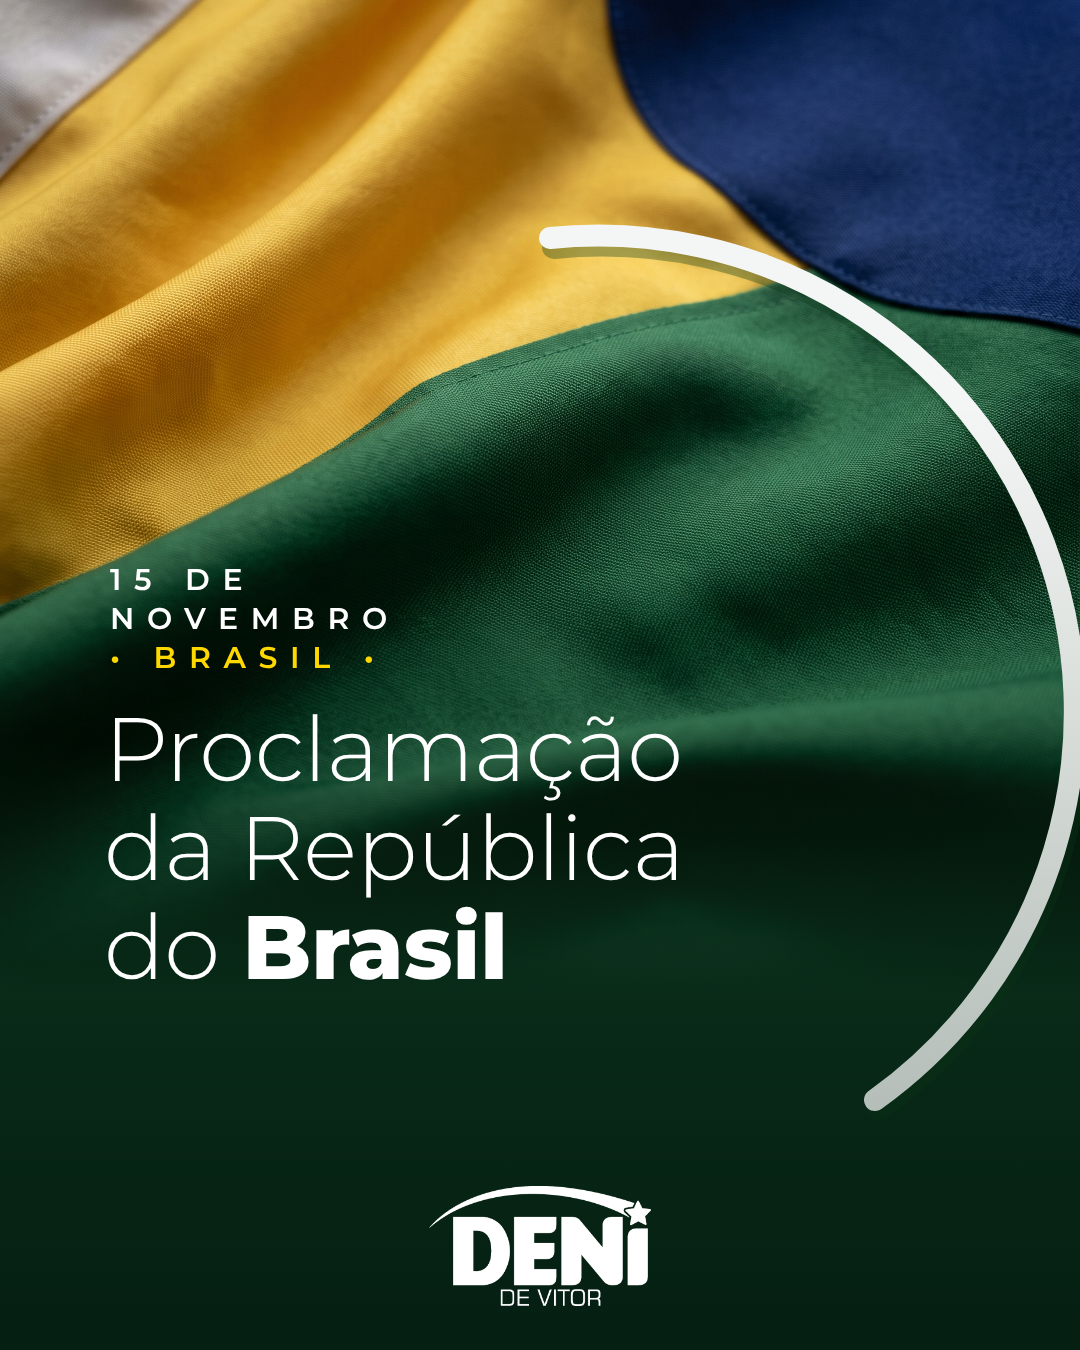
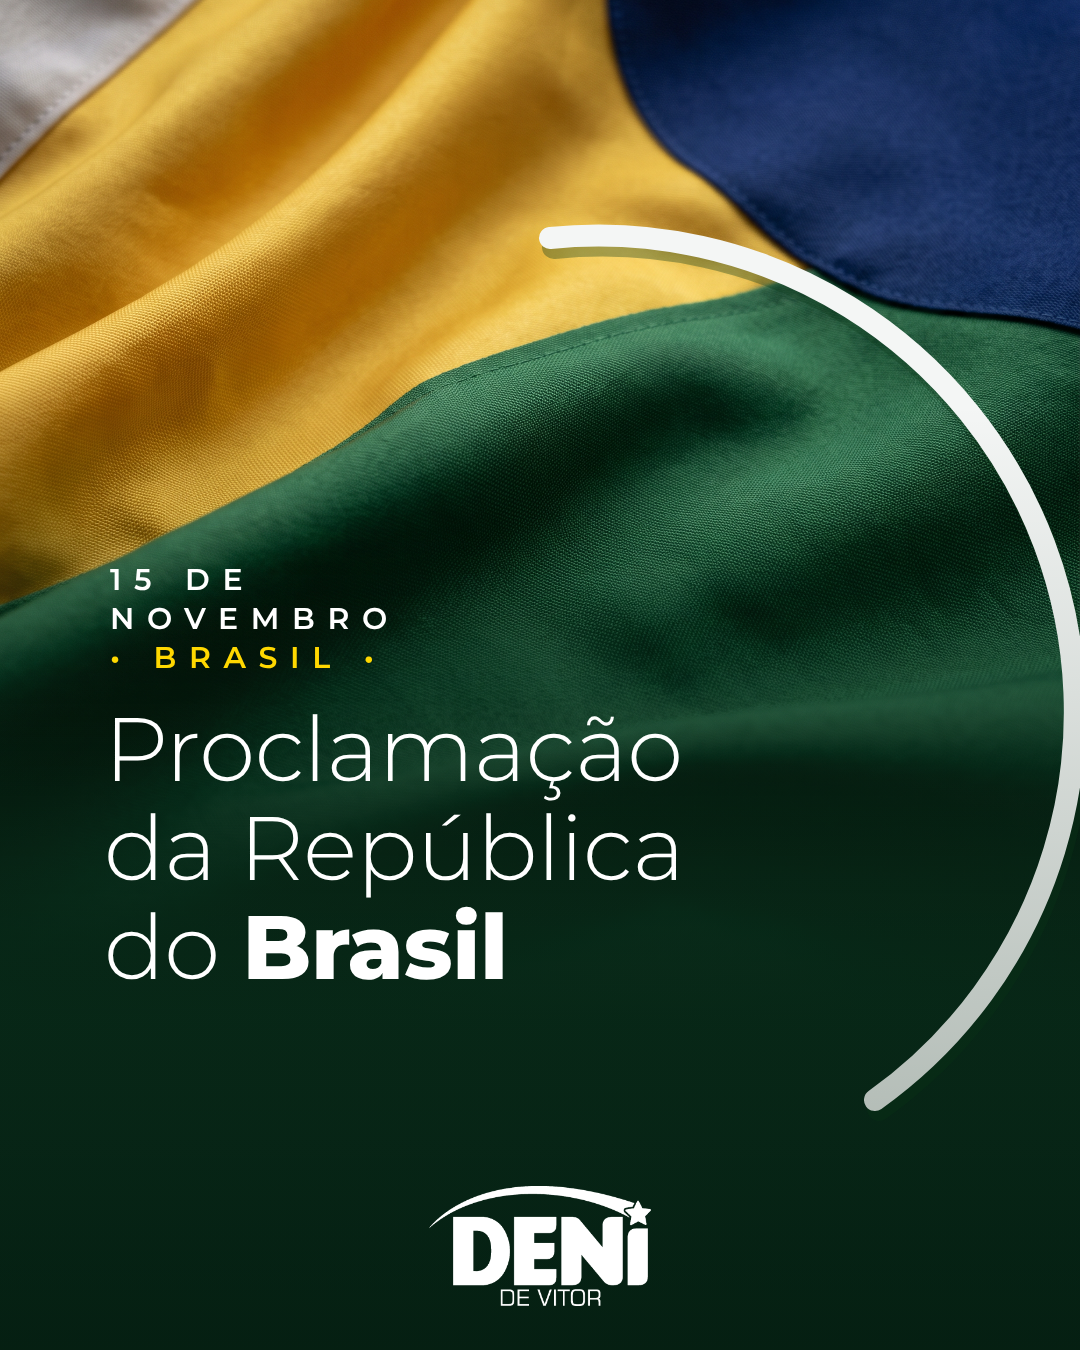
Deni 15/11: degradê mais longo e suave, tecido se dissolve no fundo
Claude-Session: https://claude.ai/code/session_01RAcsiAg3fWWxJmAb45HbDL

Changed region(s): [[0.3361, 0.4978, 0.8861, 0.5911]]

diff --git a/clientes/deni-de-vitor/entregas/2026-11-15-proclamacao-republica/card-sem-mapa.html b/clientes/deni-de-vitor/entregas/2026-11-15-proclamacao-republica/card-sem-mapa.html
@@ -20,10 +20,12 @@ footer img{height:120px;margin-top:-10px}
 footer div{font:400 26px/1.35 Montserrat;color:#fff}
 </style>
 <svg class="bg" viewBox="0 0 1080 1350">
-  <defs><linearGradient id="vd" x1="0" y1="0" x2="0" y2="1"><stop offset="0" stop-color="#00802B"/><stop offset="1" stop-color="#0E3F22"/></linearGradient><linearGradient id="fd" x1="0" y1="0" x2="0" y2="1"><stop offset="0" stop-color="#0B2E1C" stop-opacity="0"/><stop offset=".22" stop-color="#0B2E1C" stop-opacity=".55"/><stop offset=".42" stop-color="#0B2E1C"/><stop offset="1" stop-color="#072016"/></linearGradient></defs>
-  <rect width="1080" height="1350" fill="url(#vd)"/>
-  <image href="fundo-tecido-ia.png" x="0" y="-120" width="1080" height="1150" preserveAspectRatio="none"/>
-  <rect y="740" width="1080" height="610" fill="url(#fd)"/>
+  <defs><linearGradient id="vd" x1="0" y1="0" x2="0" y2="1"><stop offset="0" stop-color="#00802B"/><stop offset="1" stop-color="#0E3F22"/></linearGradient><linearGradient id="fd" x1="0" y1="0" x2="0" y2="1"><stop offset="0" stop-color="#0B2E1C" stop-opacity="0"/><stop offset=".15" stop-color="#0B2E1C" stop-opacity=".08"/><stop offset=".3" stop-color="#0B2E1C" stop-opacity=".25"/><stop offset=".45" stop-color="#0B2E1C" stop-opacity=".5"/><stop offset=".6" stop-color="#0A2B1B" stop-opacity=".78"/><stop offset=".75" stop-color="#09271A" stop-opacity=".95"/><stop offset="1" stop-color="#072016"/></linearGradient></defs>
+  <linearGradient id="mg" x1="0" y1="0" x2="0" y2="1"><stop offset=".55" stop-color="#fff"/><stop offset=".72" stop-color="#fff" stop-opacity=".75"/><stop offset=".86" stop-color="#fff" stop-opacity=".3"/><stop offset="1" stop-color="#fff" stop-opacity="0"/></linearGradient>
+  <mask id="mk"><rect x="0" y="-120" width="1080" height="1150" fill="url(#mg)"/></mask>
+  <rect width="1080" height="1350" fill="#082418"/>
+  <image href="fundo-tecido-ia.png" x="0" y="-120" width="1080" height="1150" preserveAspectRatio="none" mask="url(#mk)"/>
+  <rect y="520" width="1080" height="830" fill="url(#fd)"/>
   <path d="M550 238 A476.5 476.5 0 0 1 875 1100" fill="none" stroke="#0b3a1a" stroke-opacity=".35" stroke-width="24" stroke-linecap="round" transform="translate(4,9)"/>
   <path d="M550 238 A476.5 476.5 0 0 1 875 1100" fill="none" stroke="#F4F6F5" stroke-width="22" stroke-linecap="round"/>
 </svg>

diff --git a/clientes/deni-de-vitor/entregas/2026-11-15-proclamacao-republica/card.html b/clientes/deni-de-vitor/entregas/2026-11-15-proclamacao-republica/card.html
@@ -20,10 +20,12 @@ footer img{height:120px;margin-top:-10px}
 footer div{font:400 26px/1.35 Montserrat;color:#fff}
 </style>
 <svg class="bg" viewBox="0 0 1080 1350">
-  <defs><linearGradient id="vd" x1="0" y1="0" x2="0" y2="1"><stop offset="0" stop-color="#00802B"/><stop offset="1" stop-color="#0E3F22"/></linearGradient><linearGradient id="fd" x1="0" y1="0" x2="0" y2="1"><stop offset="0" stop-color="#0B2E1C" stop-opacity="0"/><stop offset=".22" stop-color="#0B2E1C" stop-opacity=".55"/><stop offset=".42" stop-color="#0B2E1C"/><stop offset="1" stop-color="#072016"/></linearGradient></defs>
-  <rect width="1080" height="1350" fill="url(#vd)"/>
-  <image href="fundo-tecido-ia.png" x="0" y="-120" width="1080" height="1150" preserveAspectRatio="none"/>
-  <rect y="740" width="1080" height="610" fill="url(#fd)"/>
+  <defs><linearGradient id="vd" x1="0" y1="0" x2="0" y2="1"><stop offset="0" stop-color="#00802B"/><stop offset="1" stop-color="#0E3F22"/></linearGradient><linearGradient id="fd" x1="0" y1="0" x2="0" y2="1"><stop offset="0" stop-color="#0B2E1C" stop-opacity="0"/><stop offset=".15" stop-color="#0B2E1C" stop-opacity=".08"/><stop offset=".3" stop-color="#0B2E1C" stop-opacity=".25"/><stop offset=".45" stop-color="#0B2E1C" stop-opacity=".5"/><stop offset=".6" stop-color="#0A2B1B" stop-opacity=".78"/><stop offset=".75" stop-color="#09271A" stop-opacity=".95"/><stop offset="1" stop-color="#072016"/></linearGradient></defs>
+  <linearGradient id="mg" x1="0" y1="0" x2="0" y2="1"><stop offset=".55" stop-color="#fff"/><stop offset=".72" stop-color="#fff" stop-opacity=".75"/><stop offset=".86" stop-color="#fff" stop-opacity=".3"/><stop offset="1" stop-color="#fff" stop-opacity="0"/></linearGradient>
+  <mask id="mk"><rect x="0" y="-120" width="1080" height="1150" fill="url(#mg)"/></mask>
+  <rect width="1080" height="1350" fill="#082418"/>
+  <image href="fundo-tecido-ia.png" x="0" y="-120" width="1080" height="1150" preserveAspectRatio="none" mask="url(#mk)"/>
+  <rect y="520" width="1080" height="830" fill="url(#fd)"/>
   <path d="M550 238 A476.5 476.5 0 0 1 875 1100" fill="none" stroke="#0b3a1a" stroke-opacity=".35" stroke-width="24" stroke-linecap="round" transform="translate(4,9)"/>
   <path d="M550 238 A476.5 476.5 0 0 1 875 1100" fill="none" stroke="#F4F6F5" stroke-width="22" stroke-linecap="round"/>
 </svg>
